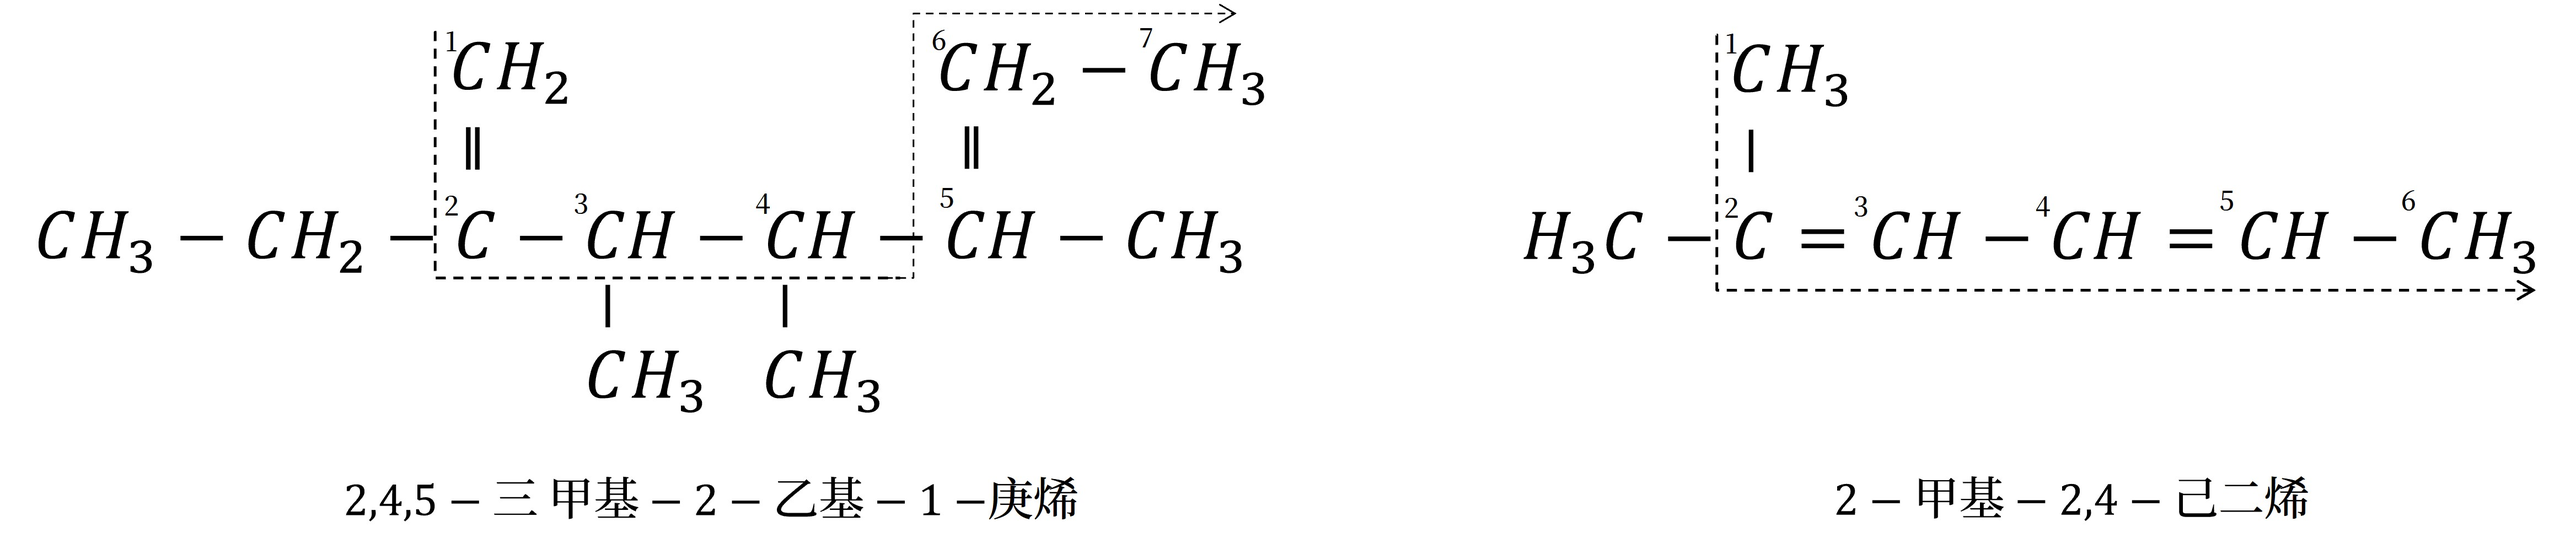
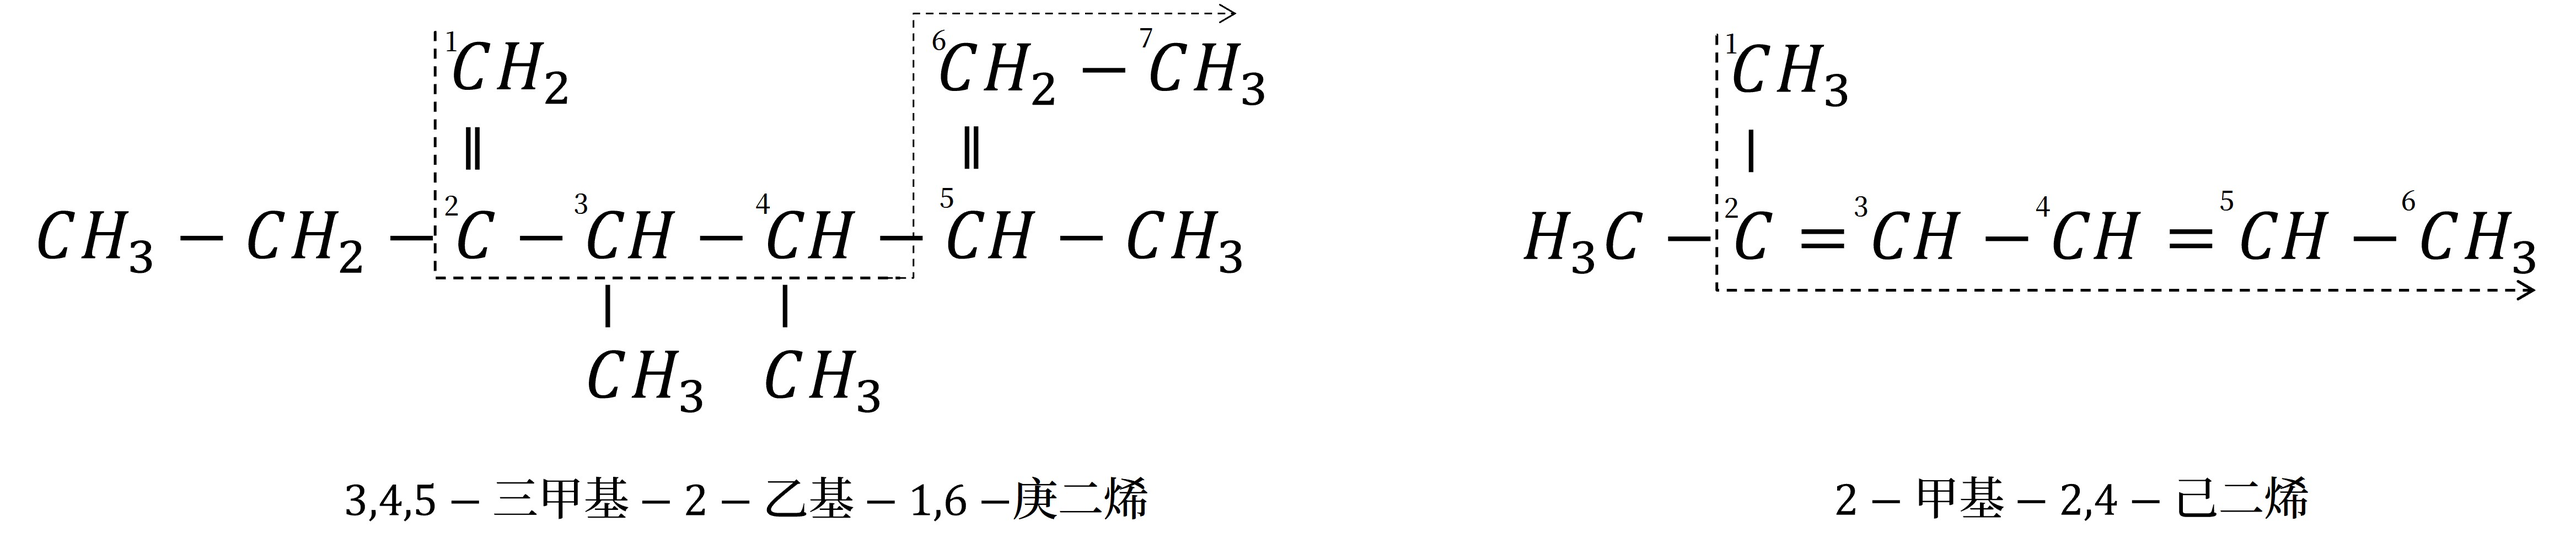
23.4.22：完善了一点点东西

Changed region(s): [[0.1875, 0.8637, 0.4688, 0.9562], [0.125, 0.8945, 0.1562, 0.9254]]

diff --git a/04 有机化学基础/03 有机化合物的分类和命名.md b/04 有机化学基础/03 有机化合物的分类和命名.md
@@ -18,8 +18,75 @@
 > 同系物因组成和结构相似，化学性质相似，而物理性质如熔沸点、密度，一般呈规律性变化
 >
 > 同系物定义中的「结构相似」是指碳链和成键方式相同、官能团相同、官能团数目相同、官能团与其他原子的连接
-> 方式相同等。如 $CH_3CH_2OH$ 与 $HOCH_2CH_2OH$ 不属于同系物。
+> 方式相同等。如 $CH_3CH_2OH$ 与 $HOCH_2CH_2OH$ 不属于同系物
 
+<table>
+   <tr>
+        <th>类别</th>
+        <th>官能团名称</th>
+        <th>官能团结构</th>
+    </tr>
+    <tr>
+        <td>烯烃</td>
+        <td>碳碳双键</td>
+        <td><img src="images/3.8.svg" height="50"></td>
+    </tr>
+    <tr>
+        <td>炔烃</td>
+        <td>碳碳三键</td>
+        <td><img src="images/3.9.svg" height="50"></td>
+    </tr>
+    <tr>
+        <td>卤代烃</td>
+        <td>碳卤键</td>
+        <td><img src="images/3.10.svg" height="50"></td>
+    </tr>
+    <tr>
+        <td>醇</td>
+        <td rowspan="2">羟基</td>
+        <td rowspan="2"><img src="images/3.11.svg" height="50"></td>
+    </tr>
+    <tr>
+        <td>酚</td>
+    </tr>
+    <tr>
+        <td>醚</td>
+        <td>醚键</td>
+        <td><img src="images/3.12.svg" height="50"></td>
+    </tr>
+    <tr>
+        <td>醛</td>
+        <td>醛基</td>
+        <td><img src="images/3.13.svg" height="50"></td>
+    </tr>
+    <tr>
+        <td>酮</td>
+        <td>酮羰基</td>
+        <td><img src="images/3.14.svg" height="50"></td>
+    </tr>
+    <tr>
+        <td>羧酸</td>
+        <td>羧基</td>
+        <td><img src="images/3.15.svg" height="50"></td>
+    </tr>
+    <tr>
+        <td>酯</td>
+        <td>酯基</td>
+        <td><img src="images/3.16.svg" height="50"></td>
+    </tr>
+    <tr>
+        <td>胺</td>
+        <td>氨基</td>
+        <td><img src="images/3.17.svg" height="50"></td>
+    </tr>
+    <tr>
+        <td>酰胺</td>
+        <td>酰胺基</td>
+        <td><img src="images/3.18.svg" height="50"></td>
+    </tr>
+</table>
+
+> 酚和醇的官能团均为羟基( $-OH$ )，但酚中羟基直接与苯环相连，而醇中羟基直接连在饱和碳原子上
 
 ## 习惯命名法
 $$
@@ -53,9 +120,29 @@ $$
 1. **选主链**：将**含有碳碳双键或碳碳三键**的**最长碳链**作为主链，称为「某烯」或「某炔」
 2. **编序号**：从距离碳碳双键或碳碳三键**最近**的一端对主链上的碳原子进行编号定位
 3. **写名称**：将支链作为取代基，写在「某烯」或「某炔」的前面，并用阿拉伯数字标明碳碳双键或碳碳三键的位置，写出有机物的名称
-   从前到后的顺序依次为**简单取代基位置** $-$ **简单取代基数目** $-$ **简单取代基名称** $-$ **复杂取代基位置** $-$ **复杂取代基数目** $-$ **复杂取代基名称** $-$ **碳碳双键或三键位置** $-$ **主链名**
-<img title="" src="images/3.5.jpg" alt="" height="150">
+   从前到后的顺序依次为 **简单取代基位置** $-$ **简单取代基数目** $-$ **简单取代基名称** $-$ **复杂取代基位置** $-$ **复杂取代基数目** $-$ **复杂取代基名称** $-$ **碳碳双键或三键位置** $-$ **主链名**
+   <img title="" src="images/3.5.jpg" alt="" height="150">
+
+> 烯烃、炔烃的命名与烷烃的命名的不同点
+> 1. 主链的选取：必须是含有碳碳双键或碳碳三键的最长碳链
+> 2. 主链的编号：从距离碳碳双键或碳碳三键最近的一端开始编号
+> 3. 名称的书写：先写取代基的位置和名称，再写碳碳双键或碳碳三键的位置
 
 ### 芳香烃的命名
 1. **基本原则**：环状化合物的命名通常选择环作为母体，从环上连有最简单取代基的碳原子开始编号
 2. **苯的同系物的系统命名**：
+
+   将苯环上的 $6$ 个碳原子按最小位次和原则进行编号（从 $1-6$ ），命名时要指出取代基的位置和名称
+
+   1. 以苯环作为命名的母体，苯环上的侧链烷基为取代基进行命名，如苯环上的一个氢原子被甲基取代称为甲苯，苯环上的一个氢原子被乙基取代称为乙苯。
+   
+      当苯环上有两个取代基时，根据取代基在苯环上的相对位置，可分别用「邻」「间」「对」来表示；当苯环上有两个取代基时，根据取代基在苯环上的相对位置，可分别用「连」「偏」「均」来表示
+   
+      <img title="" src="images/3.6.jpg" alt="" height="130"> 
+
+   2. 采用习惯命名法命名，当苯环上有两个不同取代基时，以较大的取代基为母体来命名
+   
+      > 如图所示
+      > <img title="" src="images/3.7.jpg" alt="" height="100">
+   
+   3. 当苯环上连接不饱和基团或虽为饱和基团，但体积较大或结构比较复杂时，可将苯作为取代基
